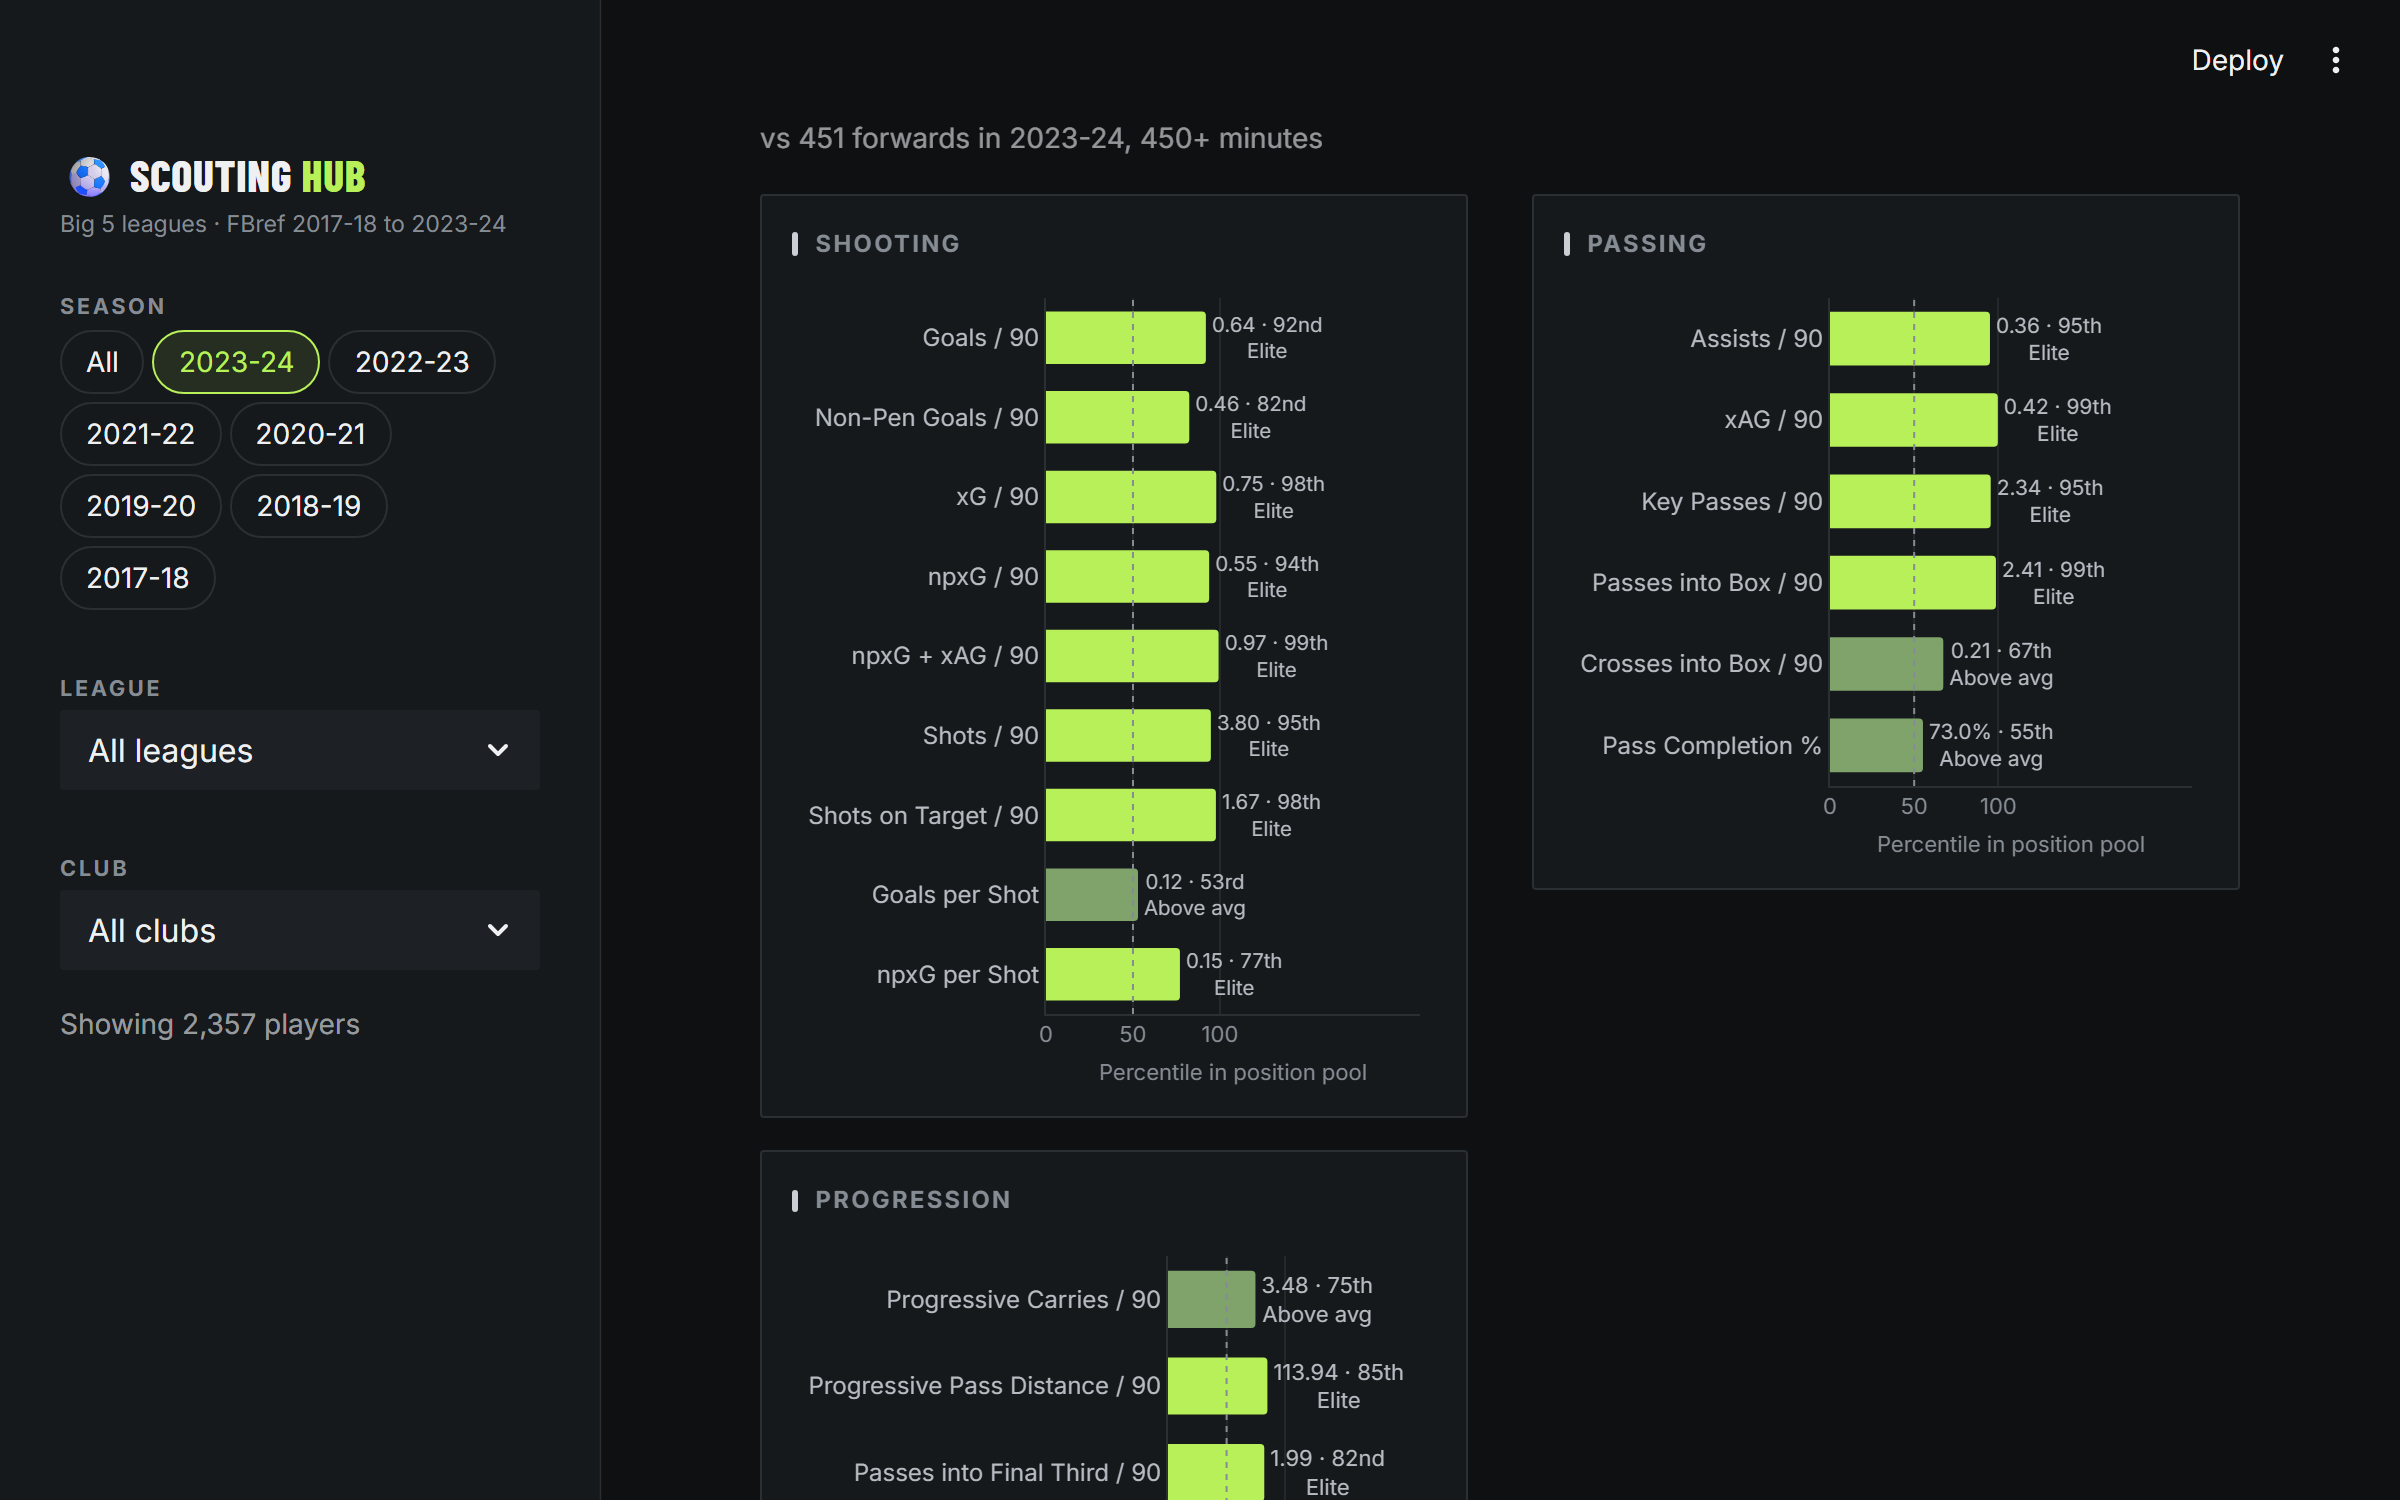
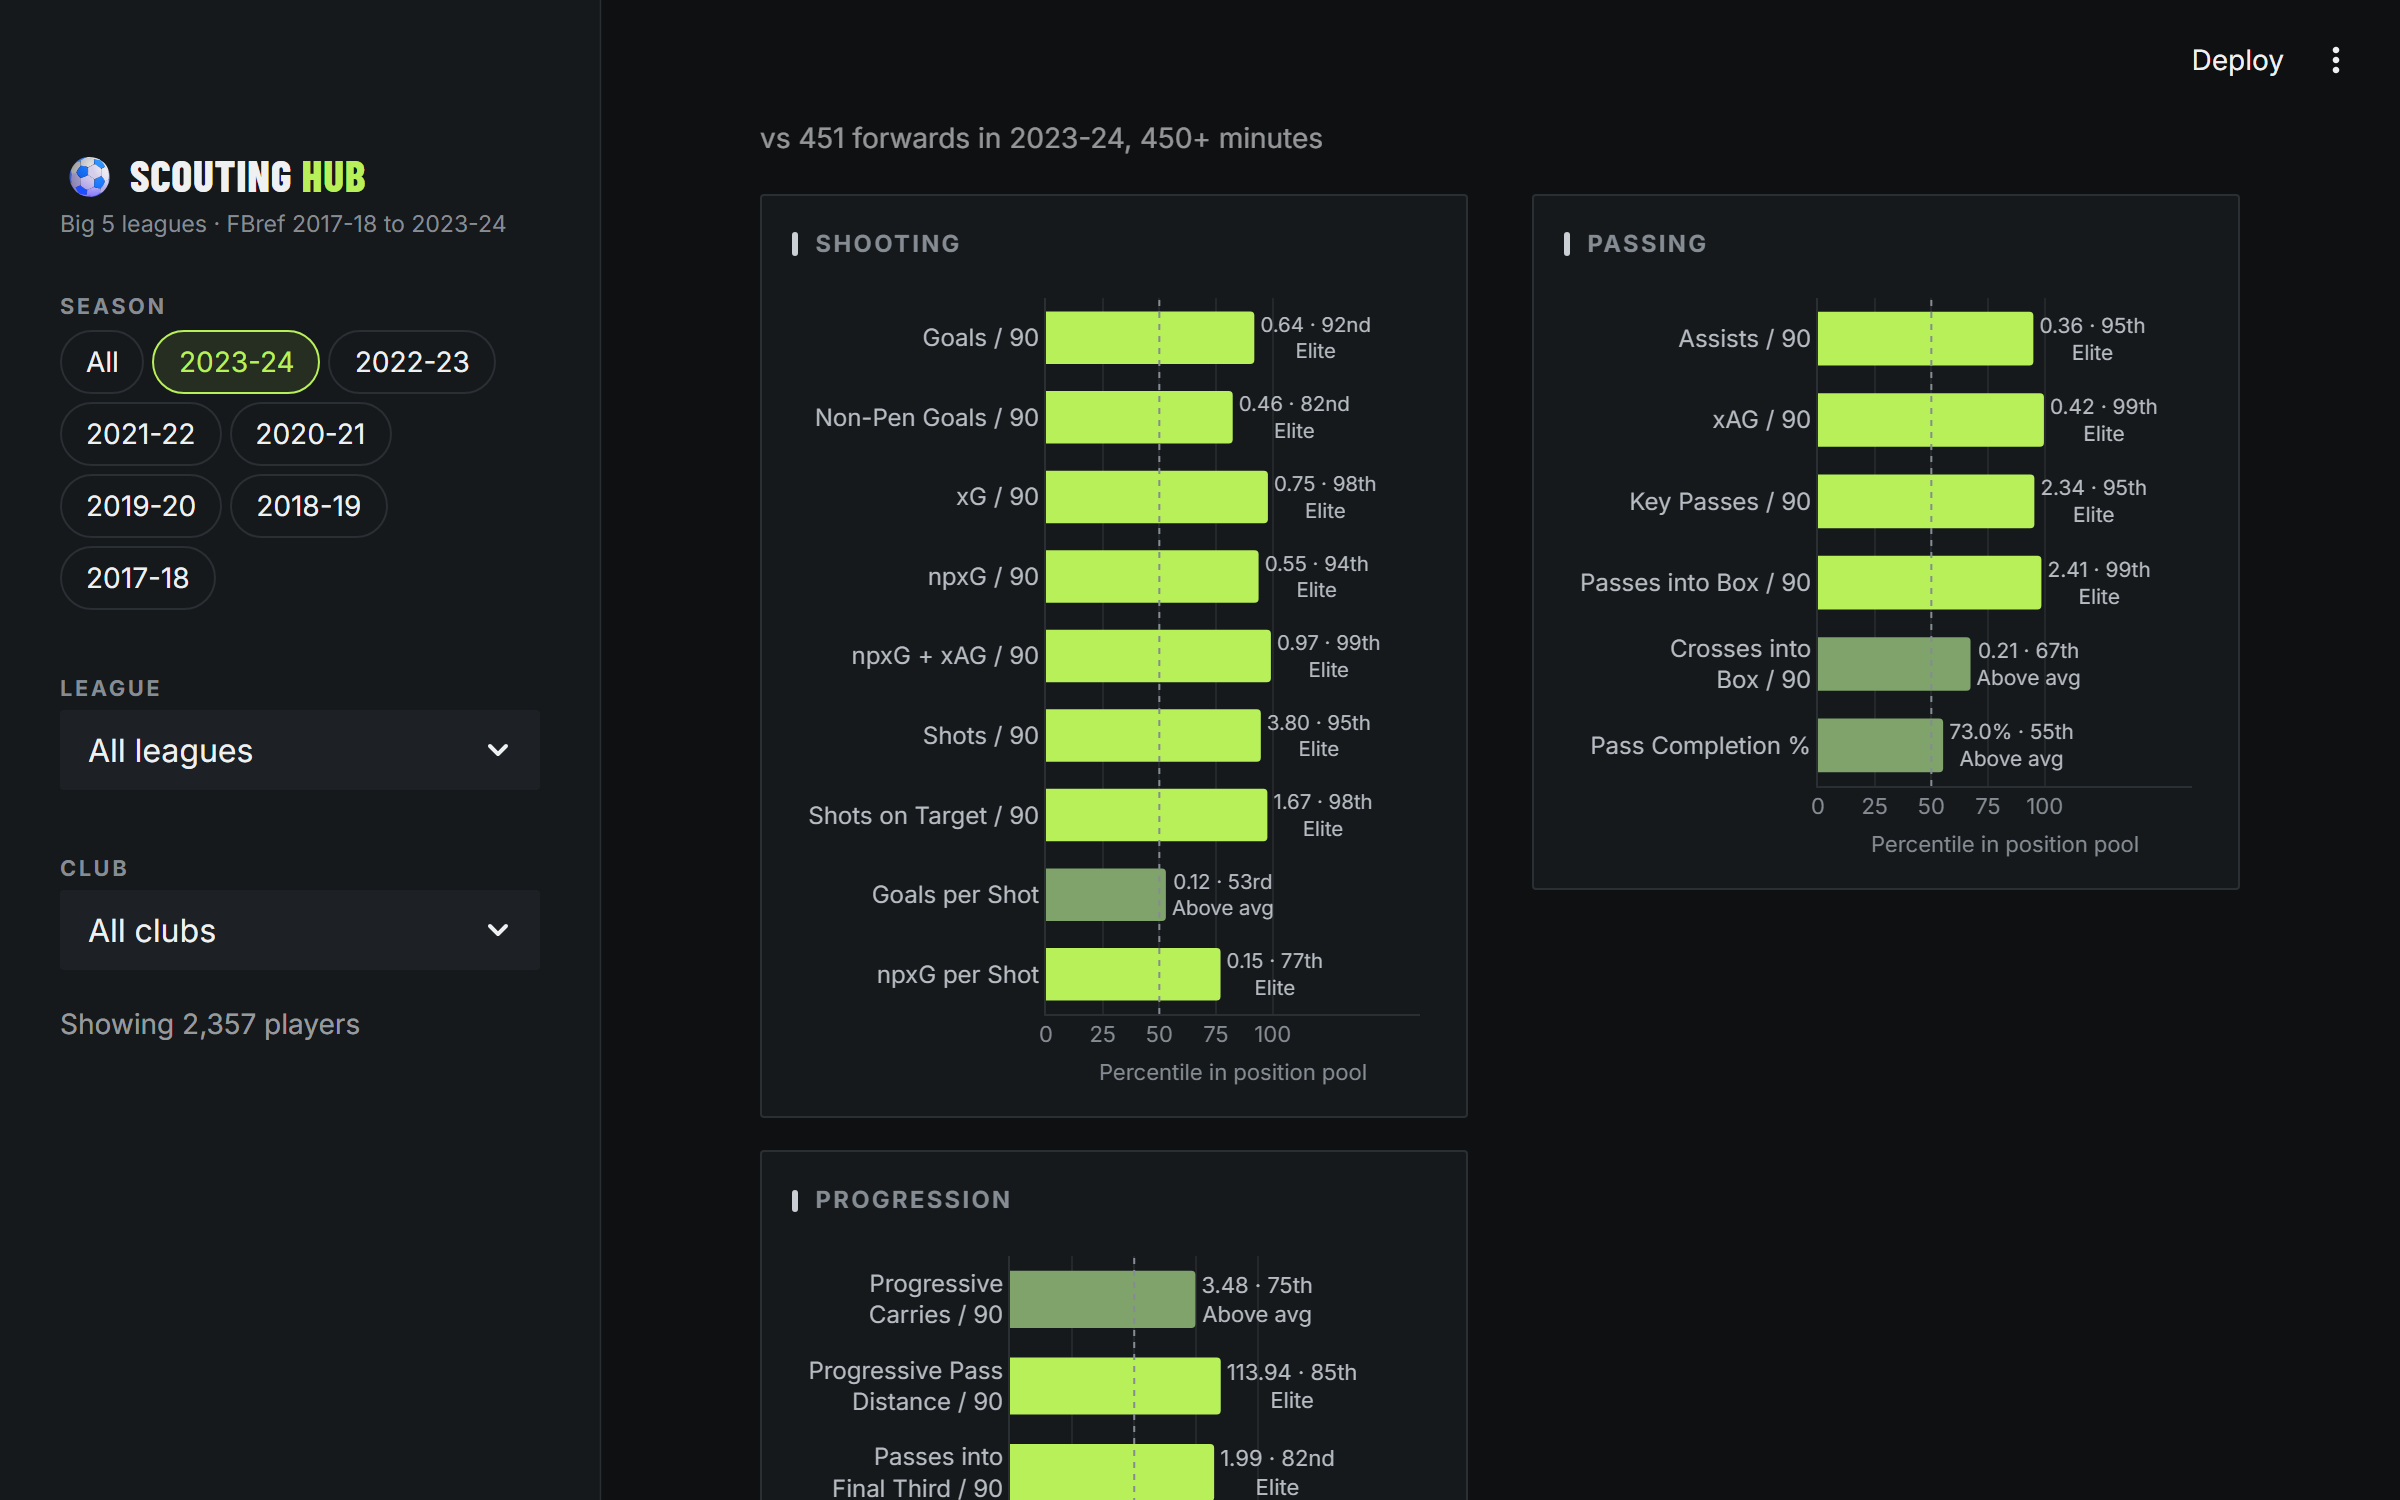
ui: percentile bars get 0/25/50/75/100 ticks back, long metric names wrap
857ad88 cut the x ticks to 0/50/100 because the 0-100 track filled under half
of the [0, 215] range and five ticks ran together on narrow cards. Shrinking
the headroom alone could not fix it: on the 1200px Progression card
"Progressive Pass Distance / 90" left a 126px plot, too narrow both for five
ticks and for a 99th-percentile label (Toni Kroos "654.36 · 99th" clipped at
range 165, so that card needed ~200+).

So metric names over 20 characters now wrap onto two lines at the space
nearest the middle (hover still shows the full name), which gives every
half-width card a plot of at least ~187px at 1200px. On that, PCT_X_MAX = 165
keeps the widest plausible label at x=100 inside the card (~157 needed) and
gives the track enough width for five readable ticks at the existing size.
tickangle 0 and the axis title are unchanged. Tests pin the five tickvals,
the range constant and the wrapping. Screenshots 03 and 07 refreshed.

diff --git a/src/ui/viz.py b/src/ui/viz.py
@@ -22,6 +22,14 @@ DUMBBELL_ROW_PX = 34
 LINK = "rgba(238,240,242,0.22)"  # dumbbell connector
 LABEL_SHIFT = 14       # px above/below a dot for its direct label
 LABEL_X_MIN, LABEL_X_MAX = 10, 90  # keep centred labels inside the plot
+# Percentile-bar x range upper bound: the bars use 0-100, the rest is room for
+# the two-line value label ("654.36 · 99th" over "Elite") drawn past the bar end.
+# Lower gives the 0-100 track (and its five ticks) more width; too low and a
+# label on a 99th-percentile bar is cut off at the card edge on a half-width card.
+PCT_X_MAX = 165
+# Metric names longer than this wrap onto two lines, so one long name
+# ("Progressive Pass Distance / 90") cannot squeeze the plot of its whole card.
+PCT_LABEL_WRAP = 20
 
 
 def _axis(**overrides) -> dict:
@@ -62,6 +70,15 @@ def _empty(message: str) -> go.Figure:
     return fig
 
 
+def _wrap_label(text: str, width: int = PCT_LABEL_WRAP) -> str:
+    """Split a long axis label at the space nearest its middle ("a b c d" -> "a b<br>c d")."""
+    if len(text) <= width or " " not in text:
+        return text
+    mid = len(text) / 2
+    cut = min((i for i, ch in enumerate(text) if ch == " "), key=lambda i: abs(i - mid))
+    return f"{text[:cut]}<br>{text[cut + 1:]}"
+
+
 def percentile_bars(rows: list[tuple[str, float, str]]) -> go.Figure:
     """Horizontal 0-100 percentile bars, one per metric, coloured by band.
 
@@ -78,26 +95,25 @@ def percentile_bars(rows: list[tuple[str, float, str]]) -> go.Figure:
 
     fig = go.Figure()
     fig.add_bar(
-        y=labels, x=pcts, orientation="h",
+        y=[_wrap_label(name) for name in labels], x=pcts, orientation="h",
         marker=dict(color=[T.PCT_RAMP[b.index] for b in bands], cornerradius=2),
         # two lines ("0.64 · 92nd" over "Elite"): one long line gets clipped at
         # the card edge when the metric names are long and the card is half width
         text=[f"{v} · {o}<br>{b.label}" for v, o, b in zip(values, ords, bands)],
         textposition="outside", cliponaxis=False,
         textfont=dict(color=T.INK_2, size=11, family=T.FONT_BODY),
-        customdata=[[v, o, b.label] for v, o, b in zip(values, ords, bands)],
-        hovertemplate="%{y}: %{customdata[0]}<br>%{customdata[1]} percentile · %{customdata[2]}<extra></extra>",
+        customdata=[[v, o, b.label, name] for v, o, b, name in zip(values, ords, bands, labels)],
+        hovertemplate=("%{customdata[3]}: %{customdata[0]}<br>"
+                       "%{customdata[1]} percentile · %{customdata[2]}<extra></extra>"),
         showlegend=False,
     )
     fig.add_vline(x=50, line_color=T.MUTED, line_width=1, line_dash="dot")
     fig.update_layout(**_layout(
         height=ROW_PX * len(rows) + 60,
         bargap=0.34,
-        # headroom past 100 so the outside labels are never clipped
+        # headroom past 100 (PCT_X_MAX) so the outside labels are never clipped
         # tickangle 0: a long metric name narrows the plot and Plotly would rotate the ticks
-        # only 0/50/100: the 0-100 scale fills under half of the [0, 215] range, so on
-        # narrow cards five ticks crowd into each other ("0 255075100")
-        xaxis=_axis(range=[0, 215], tickvals=[0, 50, 100], tickangle=0,
+        xaxis=_axis(range=[0, PCT_X_MAX], tickvals=[0, 25, 50, 75, 100], tickangle=0,
                     title=dict(text="Percentile in position pool", font=dict(color=T.MUTED, size=11))),
         yaxis=_axis(autorange="reversed", showgrid=False, tickfont=dict(color=T.INK_2, size=12)),
     ))

diff --git a/tests/test_viz.py b/tests/test_viz.py
@@ -33,7 +33,7 @@ def test_percentile_bars_label_value_percentile_and_band_as_text():
 def test_percentile_bars_size_axis_and_reference_line():
     fig = viz.percentile_bars(ROWS)
     assert fig.layout.height == viz.ROW_PX * 4 + 60
-    assert tuple(fig.layout.xaxis.range) == (0, 215)  # headroom for the outside labels
+    assert tuple(fig.layout.xaxis.range) == (0, viz.PCT_X_MAX)  # headroom for the outside labels
     assert fig.layout.xaxis.fixedrange is True and fig.layout.yaxis.fixedrange is True
     assert fig.layout.yaxis.autorange == "reversed"
     assert any(shape.x0 == 50 for shape in fig.layout.shapes)
@@ -43,12 +43,33 @@ def test_percentile_bars_keep_x_ticks_horizontal():
     assert viz.percentile_bars(ROWS).layout.xaxis.tickangle == 0
 
 
-def test_percentile_bars_show_only_0_50_100_ticks_horizontally():
-    # five ticks crowd into "0 255075100" on narrow cards with long metric names
+def test_percentile_bars_show_five_horizontal_ticks():
     xaxis = viz.percentile_bars(ROWS).layout.xaxis
-    assert list(xaxis.tickvals) == [0, 50, 100]
+    assert list(xaxis.tickvals) == [0, 25, 50, 75, 100]
     assert xaxis.tickangle == 0
     assert xaxis.title.text == "Percentile in position pool"
+
+
+def test_percentile_bars_range_leaves_label_room_without_starving_the_track():
+    # under ~160 a 99th-percentile label clips on a half-width card; at 215 the
+    # 0-100 track was too short for five ticks ("0 255075100")
+    assert viz.PCT_X_MAX == 165
+    assert tuple(viz.percentile_bars(ROWS).layout.xaxis.range) == (0, 165)
+
+
+def test_percentile_bars_wrap_long_metric_names_but_hover_the_full_name():
+    rows = [("Progressive Pass Distance / 90", 85.0, "113.94"), ("Save %", 50.0, "70.0%")]
+    bar = viz.percentile_bars(rows).data[0]
+    assert list(bar.y) == ["Progressive Pass<br>Distance / 90", "Save %"]
+    assert bar.customdata[0][3] == "Progressive Pass Distance / 90"
+    assert "%{customdata[3]}" in bar.hovertemplate and "%{y}" not in bar.hovertemplate
+
+
+def test_wrap_label_splits_at_the_space_nearest_the_middle():
+    assert viz._wrap_label("Shots on Target / 90") == "Shots on Target / 90"  # 20 chars: kept
+    assert viz._wrap_label("Tackles + Interceptions") == "Tackles +<br>Interceptions"
+    assert viz._wrap_label("Shots on Target Against / 90") == "Shots on Target<br>Against / 90"
+    assert viz._wrap_label("Supercalifragilisticexpialidocious") == "Supercalifragilisticexpialidocious"
 
 
 def test_percentile_bars_empty_state():
